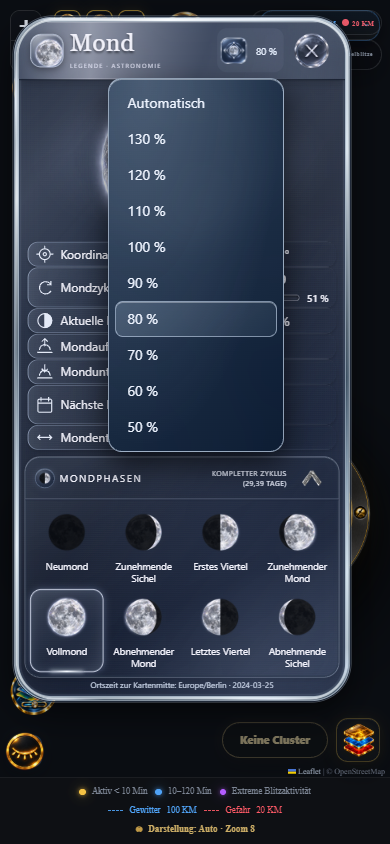
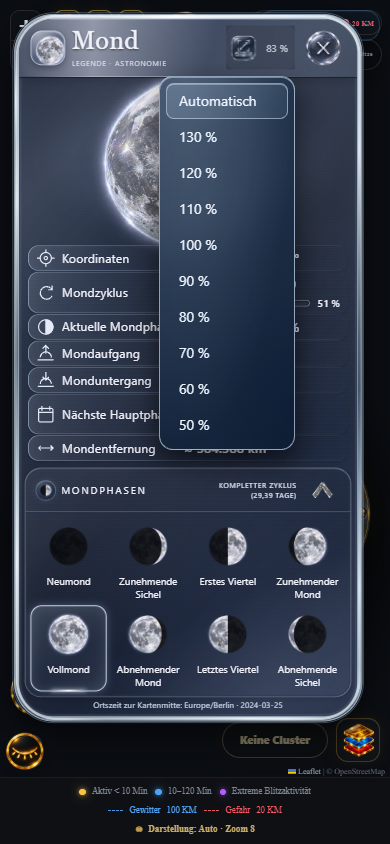
fix(moon): narrow localized size menu and correct DEV provenance

Changed region(s): [[0.0308, 0.0, 0.9538, 0.8626]]

diff --git a/custom_components/gewitterradar/frontend/modules/weather/moon-legend.js b/custom_components/gewitterradar/frontend/modules/weather/moon-legend.js
@@ -251,7 +251,7 @@ export function openMoon(o){
  s.setExpanded=setExpanded;s.refreshAppearance=()=>{const pref=legendHubState(o).config.moonUi;applyMoonMaterial(d,pref);s.renderDistance?.();setExpanded(pref.phasesExpanded);schedulePlace(o,s);};s.refreshAppearance();
  toggle.addEventListener('click',()=>setExpanded(toggle.getAttribute('aria-expanded')!=='true',true));
  const closeMenu=(focus=false)=>{sizeMenu.hidden=true;sizeButton.setAttribute('aria-expanded','false');if(focus)sizeButton.focus({preventScroll:true});};
- s.positionMenu=()=>{if(sizeMenu.hidden)return;const b=bounds(o,s);if(!b)return;const a=card.getBoundingClientRect(),trigger=sizeButton.getBoundingClientRect(),width=Math.min(176,b.w),left=clamp((trigger.right-a.left)/b.sx-b.x-width,b.w-width)+b.x;sizeMenu.style.width=width+'px';sizeMenu.style.left=left+'px';sizeMenu.style.maxHeight=Math.max(0,b.h)+'px';const h=sizeMenu.offsetHeight,below=(trigger.bottom-a.top)/b.sy+6;sizeMenu.style.top=clamp((below+h<=b.y+b.h?below:(trigger.top-a.top)/b.sy-h-6)-b.y,b.h-h)+b.y+'px';};
+ s.positionMenu=()=>{if(sizeMenu.hidden)return;const b=bounds(o,s);if(!b)return;sizeMenu.style.width='max-content';const a=card.getBoundingClientRect(),trigger=sizeButton.getBoundingClientRect(),width=Math.min(b.w,Math.max(136,sizeMenu.offsetWidth)),left=clamp((trigger.right-a.left)/b.sx-b.x-width,b.w-width)+b.x;sizeMenu.style.width=width+'px';sizeMenu.style.left=left+'px';sizeMenu.style.maxHeight=Math.max(0,b.h)+'px';const h=sizeMenu.offsetHeight,below=(trigger.bottom-a.top)/b.sy+6;sizeMenu.style.top=clamp((below+h<=b.y+b.h?below:(trigger.top-a.top)/b.sy-h-6)-b.y,b.h-h)+b.y+'px';};
  const showMenu=()=>{card.append(sizeMenu);sizeMenu.hidden=false;sizeButton.setAttribute('aria-expanded','true');place(o,s);s.positionMenu();(sizeMenu.querySelector('[aria-checked=true]')||sizeMenu.firstElementChild).focus({preventScroll:true});};
  sizeButton.addEventListener('click',()=>sizeMenu.hidden?showMenu():closeMenu());
  sizeButton.addEventListener('keydown',e=>{if(['ArrowDown','ArrowUp'].includes(e.key)){e.preventDefault();showMenu();}});

diff --git a/dashboard/dist/modules/weather/moon-legend.js b/dashboard/dist/modules/weather/moon-legend.js
@@ -251,7 +251,7 @@ export function openMoon(o){
  s.setExpanded=setExpanded;s.refreshAppearance=()=>{const pref=legendHubState(o).config.moonUi;applyMoonMaterial(d,pref);s.renderDistance?.();setExpanded(pref.phasesExpanded);schedulePlace(o,s);};s.refreshAppearance();
  toggle.addEventListener('click',()=>setExpanded(toggle.getAttribute('aria-expanded')!=='true',true));
  const closeMenu=(focus=false)=>{sizeMenu.hidden=true;sizeButton.setAttribute('aria-expanded','false');if(focus)sizeButton.focus({preventScroll:true});};
- s.positionMenu=()=>{if(sizeMenu.hidden)return;const b=bounds(o,s);if(!b)return;const a=card.getBoundingClientRect(),trigger=sizeButton.getBoundingClientRect(),width=Math.min(176,b.w),left=clamp((trigger.right-a.left)/b.sx-b.x-width,b.w-width)+b.x;sizeMenu.style.width=width+'px';sizeMenu.style.left=left+'px';sizeMenu.style.maxHeight=Math.max(0,b.h)+'px';const h=sizeMenu.offsetHeight,below=(trigger.bottom-a.top)/b.sy+6;sizeMenu.style.top=clamp((below+h<=b.y+b.h?below:(trigger.top-a.top)/b.sy-h-6)-b.y,b.h-h)+b.y+'px';};
+ s.positionMenu=()=>{if(sizeMenu.hidden)return;const b=bounds(o,s);if(!b)return;sizeMenu.style.width='max-content';const a=card.getBoundingClientRect(),trigger=sizeButton.getBoundingClientRect(),width=Math.min(b.w,Math.max(136,sizeMenu.offsetWidth)),left=clamp((trigger.right-a.left)/b.sx-b.x-width,b.w-width)+b.x;sizeMenu.style.width=width+'px';sizeMenu.style.left=left+'px';sizeMenu.style.maxHeight=Math.max(0,b.h)+'px';const h=sizeMenu.offsetHeight,below=(trigger.bottom-a.top)/b.sy+6;sizeMenu.style.top=clamp((below+h<=b.y+b.h?below:(trigger.top-a.top)/b.sy-h-6)-b.y,b.h-h)+b.y+'px';};
  const showMenu=()=>{card.append(sizeMenu);sizeMenu.hidden=false;sizeButton.setAttribute('aria-expanded','true');place(o,s);s.positionMenu();(sizeMenu.querySelector('[aria-checked=true]')||sizeMenu.firstElementChild).focus({preventScroll:true});};
  sizeButton.addEventListener('click',()=>sizeMenu.hidden?showMenu():closeMenu());
  sizeButton.addEventListener('keydown',e=>{if(['ArrowDown','ArrowUp'].includes(e.key)){e.preventDefault();showMenu();}});

diff --git a/frontend/modules/weather/moon-legend.js b/frontend/modules/weather/moon-legend.js
@@ -251,7 +251,7 @@ export function openMoon(o){
  s.setExpanded=setExpanded;s.refreshAppearance=()=>{const pref=legendHubState(o).config.moonUi;applyMoonMaterial(d,pref);s.renderDistance?.();setExpanded(pref.phasesExpanded);schedulePlace(o,s);};s.refreshAppearance();
  toggle.addEventListener('click',()=>setExpanded(toggle.getAttribute('aria-expanded')!=='true',true));
  const closeMenu=(focus=false)=>{sizeMenu.hidden=true;sizeButton.setAttribute('aria-expanded','false');if(focus)sizeButton.focus({preventScroll:true});};
- s.positionMenu=()=>{if(sizeMenu.hidden)return;const b=bounds(o,s);if(!b)return;const a=card.getBoundingClientRect(),trigger=sizeButton.getBoundingClientRect(),width=Math.min(176,b.w),left=clamp((trigger.right-a.left)/b.sx-b.x-width,b.w-width)+b.x;sizeMenu.style.width=width+'px';sizeMenu.style.left=left+'px';sizeMenu.style.maxHeight=Math.max(0,b.h)+'px';const h=sizeMenu.offsetHeight,below=(trigger.bottom-a.top)/b.sy+6;sizeMenu.style.top=clamp((below+h<=b.y+b.h?below:(trigger.top-a.top)/b.sy-h-6)-b.y,b.h-h)+b.y+'px';};
+ s.positionMenu=()=>{if(sizeMenu.hidden)return;const b=bounds(o,s);if(!b)return;sizeMenu.style.width='max-content';const a=card.getBoundingClientRect(),trigger=sizeButton.getBoundingClientRect(),width=Math.min(b.w,Math.max(136,sizeMenu.offsetWidth)),left=clamp((trigger.right-a.left)/b.sx-b.x-width,b.w-width)+b.x;sizeMenu.style.width=width+'px';sizeMenu.style.left=left+'px';sizeMenu.style.maxHeight=Math.max(0,b.h)+'px';const h=sizeMenu.offsetHeight,below=(trigger.bottom-a.top)/b.sy+6;sizeMenu.style.top=clamp((below+h<=b.y+b.h?below:(trigger.top-a.top)/b.sy-h-6)-b.y,b.h-h)+b.y+'px';};
  const showMenu=()=>{card.append(sizeMenu);sizeMenu.hidden=false;sizeButton.setAttribute('aria-expanded','true');place(o,s);s.positionMenu();(sizeMenu.querySelector('[aria-checked=true]')||sizeMenu.firstElementChild).focus({preventScroll:true});};
  sizeButton.addEventListener('click',()=>sizeMenu.hidden?showMenu():closeMenu());
  sizeButton.addEventListener('keydown',e=>{if(['ArrowDown','ArrowUp'].includes(e.key)){e.preventDefault();showMenu();}});

diff --git a/docs/GR_MOON_SCALE_4133_2026-11-24.md b/docs/GR_MOON_SCALE_4133_2026-11-24.md
@@ -20,3 +20,5 @@ Tatsächlich lokal ausgeführt:
 Eine zunächst falsche Stapelreihenfolge des ausgelagerten Menüs sowie die alte mobile Control-Reihenfolge wurden bei den realen Browserprüfungen gefunden, korrigiert und erneut geprüft. Screenshots zeigen die echte Anwendung mit synthetischer Moon-Engine-Testantwort, keine HA-Liveinstallation: [Desktop](evidence/gr-moon-4133/desktop.png), [Desktop-Menü](evidence/gr-moon-4133/desktop-dropdown.png), [Smartphone](evidence/gr-moon-4133/phone.png), [Smartphone-Menü](evidence/gr-moon-4133/phone-dropdown.png).
 
 Ressourcenbegrenzung: keine vollständige Browsermatrix oder Komplettregression. Die bestehende fokussierte DEV-CI wird für diese Version um denselben begrenzten Größensteuerungscheck ergänzt. Reale HA-DEV-Installation, grafische Betreiberfreigabe und vollständige Gerätematrix bleiben offen. PROD und historische FINAL-Stände bleiben unverändert.
+
+Abschlusskorrektur: Dropdown-Mindestbreite 136 px, bei längeren lokalisierten Einträgen über intrinsische Textbreite erweitert und weiterhin auf die Kartenfläche begrenzt. Smartphone 390 × 844 erneut gezielt geprüft: 136 px Breite, kein horizontaler Überlauf, Close rechts oben unverändert, Touch-Auswahl 70 Prozent und Auto erfolgreich. DRA-Zweckbeschreibung um Legend Hub ergänzt; kanonischer DEV-Identitätstest erfolgreich. Die erste öffentliche CI scheiterte ausschließlich an dieser fehlenden Bereichsbezeichnung; ihre Ergebnisse werden nicht als finale Freigabe ausgegeben.
